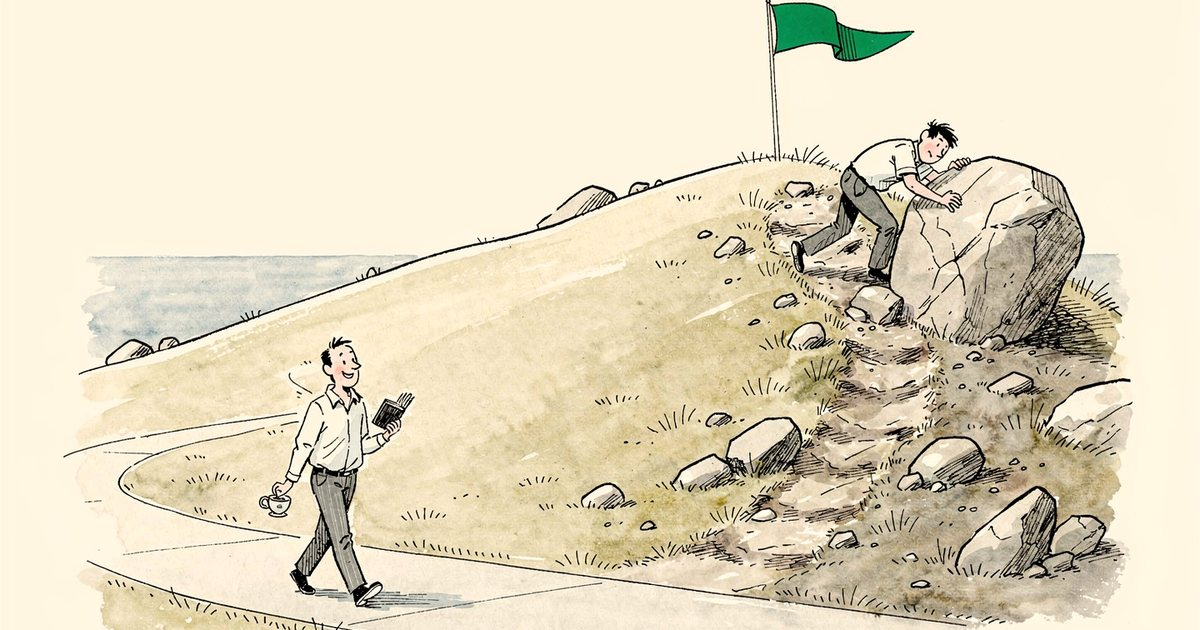
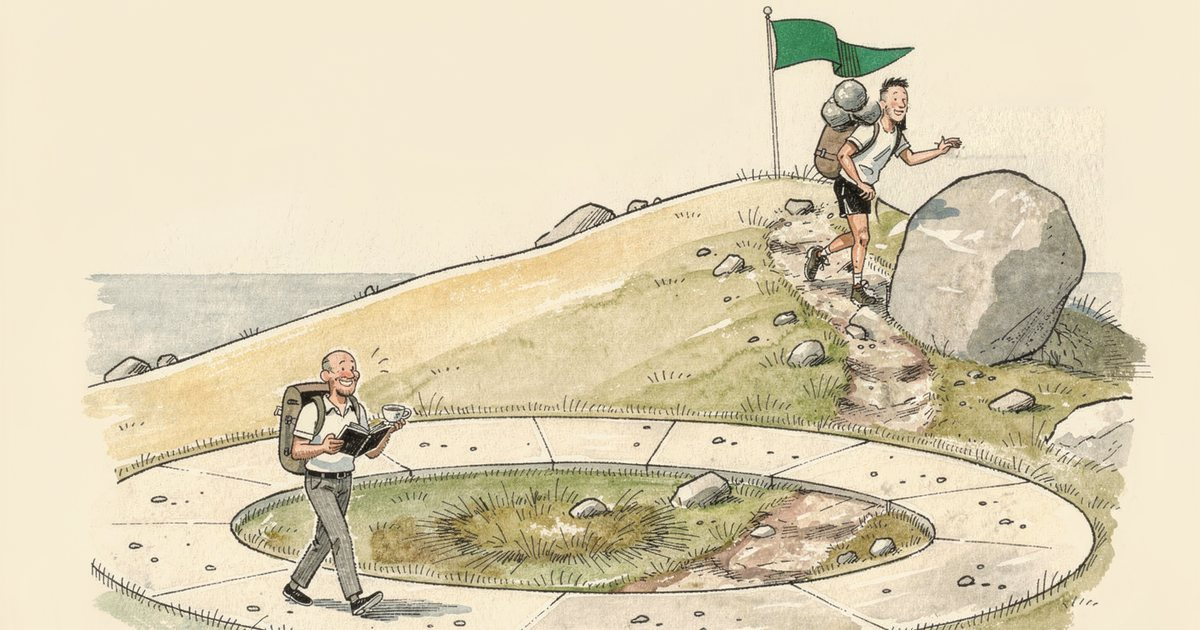
Blog: a TL;DR, and the hill picture redrawn
The goldfish post opens with a three-line TL;DR (the myth, the real
reason, the catch). The hill illustration is redrawn: the smooth path is a
closed loop that goes round in circles instead of stopping halfway up the
hill, and the climber is a fit hiker with three stones in his rucksack,
in the muted colours of the first version. Edited with FLUX, then put
together by hand. The caption, alt text and link preview follow.

Claude-Session: https://claude.ai/code/session_01HKzTyG5zELXfQ7JEL7W87S

diff --git a/blog/you-are-not-a-goldfish/index.html b/blog/you-are-not-a-goldfish/index.html
@@ -19,7 +19,7 @@
 <meta property="og:image" content="https://www.kormoranlabs.com/blog/you-are-not-a-goldfish/og.jpg">
 <meta property="og:image:width" content="1200">
 <meta property="og:image:height" content="630">
-<meta property="og:image:alt" content="A hand-drawn hill: one man strolls along a smooth path with a book and a teacup while another climbs a rocky trail towards a green flag.">
+<meta property="og:image:alt" content="A hand-drawn hill: one man strolls round a paved loop with a book and a teacup while a fit hiker carrying stones climbs a rocky trail towards a green flag.">
 <meta property="article:published_time" content="2026-11-25">
 <meta name="twitter:card" content="summary_large_image">
 <link rel="preload" href="/assets/fonts/cormorant-garamond-italic.woff2" as="font" type="font/woff2" crossorigin>
@@ -67,6 +67,15 @@
     <h1>You are not a goldfish</h1>
     <p class="summary">Short courses are sold on the claim that our attention has shrunk below a goldfish&rsquo;s. Nobody can find where that came from. The better case is stranger: practice spread over days works because it feels harder, and that feeling is exactly what fools us.</p>
 
+    <aside class="tldr" aria-labelledby="tldr-title">
+      <p class="label" id="tldr-title"><span class="eye">&#9679;</span>&nbsp; TL;DR</p>
+      <ul>
+        <li><strong>The myth:</strong> nobody has found a measurement behind the &ldquo;eight-second attention span&rdquo;. It is no reason for short courses.</li>
+        <li><strong>The real reason:</strong> short sessions make it easy to spread practice over days, mix things up and ask before telling. That feels harder, and it often works better.</li>
+        <li><strong>The catch:</strong> because it feels harder, we take it for learning less. A good course makes those choices for you, and measures the work, not the visits.</li>
+      </ul>
+    </aside>
+
     <p>You have heard it. The average human attention span used to be twelve seconds; now it is eight, one second less than a goldfish. It turns up in keynotes, in marketing decks and in nearly every pitch for &ldquo;bite-sized&rdquo; learning.</p>
     <p>Nobody has found a measurement behind it. The numbers appeared in a 2015 report by Microsoft Canada&rsquo;s consumer insights team, credited to a statistics website, and when the BBC looked for the research behind them, it found none. One psychologist told the BBC that attention depends on the task.<sup><a href="#s1" id="r1">1</a></sup> Think of the person who cannot finish a long email but reads a novel to the end on holiday.</p>
     <p>So if short courses made sense only because we had turned into goldfish, they would make none. They make sense for another reason, and it sounds backwards. Short sessions make it easy to spread practice over days, and practice that is spread out, mixed up and tested feels harder, yet often works better.</p>
@@ -88,8 +97,8 @@
     <h2>Why all of this feels wrong</h2>
     <p>Each of these makes practice feel worse while it is happening, and we judge practice by how it feels. In a classic study, some students reread a short text about fourteen times; others read it a few times and then tried, three times over, to write down what they remembered. Five minutes later, the rereaders were ahead, 83% to 71%. A week later it was 61% to 40% the other way, and the rereaders had been the more confident.<sup><a href="#s7" id="r7">7</a></sup> In a flashcard study, nine in ten people did better with their cards spaced out, and after the first session most of them believed the opposite.<sup><a href="#s8" id="r8">8</a></sup></p>
     <figure class="illustration">
-      <img src="two-paths.webp" width="1440" height="960" loading="lazy" decoding="async" alt="A hand-drawn hill. At the bottom, a smiling man strolls along a smooth paved path with a book and a teacup. Higher up, a second man hauls himself over a boulder on a steep, rocky trail, close to a green flag at the top.">
-      <figcaption>The smooth path feels like progress. The rough one is the one that climbs.</figcaption>
+      <img src="two-paths.webp" width="1440" height="960" loading="lazy" decoding="async" alt="A hand-drawn hill by the sea. At the bottom, a smiling man with a book and a teacup strolls round a closed paved loop. A rough trail leaves the loop and climbs the hill, where a fit hiker with a rucksack full of stones nears a green flag.">
+      <figcaption>The smooth loop feels like progress. The rough path is the one that climbs.</figcaption>
     </figure>
     <p>Conditions &ldquo;that make performance improve rapidly often fail to support long-term retention and transfer,&rdquo; the Bjorks write.<sup><a href="#s2">2</a></sup> Learning that feels smooth often isn&rsquo;t. Willpower loses to a feeling that strong. A format does not have to argue with it: the decision is made once, in advance.</p>
 

diff --git a/assets/site.css b/assets/site.css
@@ -313,3 +313,8 @@ footer .label a:hover { color: var(--text); }
 .post .illustration img { width: 100%; height: auto; border-radius: 0.75rem; border: 1px solid var(--hairline); background: #F3F1EC; }
 .post .illustration figcaption { margin-top: 0.75rem; font-style: italic; color: var(--muted); font-size: 1.1rem; line-height: 1.4; text-wrap: pretty; }
 .sources .credit { font-size: 1rem; font-style: italic; color: var(--muted); margin: 0 0 2rem; }
+/* The TL;DR at the top of a post: a quiet panel, the eye as its dot. */
+.post .tldr { margin: 0 0 2.5rem; padding: 1.1rem 1.35rem 0.4rem; border: 1px solid var(--hairline); border-radius: 0.75rem; background: var(--panel); }
+.post .tldr .label { margin-bottom: 0.6rem; }
+.post .tldr ul { margin: 0 0 0.75rem; padding-left: 1.1em; font-size: 1.15rem; line-height: 1.45; }
+.post .tldr li { margin: 0 0 0.45em; text-wrap: pretty; }
